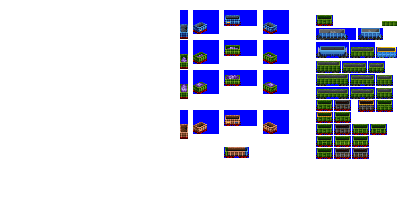
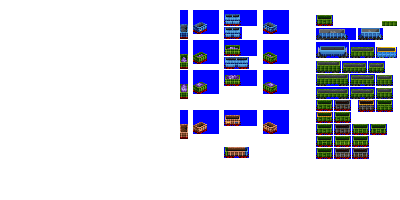
Change: WIP on aggregate bulk opens ('stone wagons'), and side door hoppers

Changed region(s): [[0.54, 0.06, 0.63, 0.21], [0.54, 0.27, 0.63, 0.36]]

diff --git a/src/vehicles/pony/aggregate_bulk_open_cars_type_1_pony.py b/src/vehicles/pony/aggregate_bulk_open_cars_type_1_pony.py
@@ -1,0 +1,27 @@
+from train import BulkOpenCarAggregateConsistType1, FreightCar
+
+
+def main(roster_id, **kwargs):
+    # --------------- standard gauge ---------------------------------------------------------------
+
+    consist = BulkOpenCarAggregateConsistType1(
+        roster_id=roster_id,
+        roster_id_providing_module=kwargs["roster_id_providing_module"],
+        base_numeric_id=32970,
+        gen=5,
+        subtype="B",
+        sprites_complete=False,
+    )
+
+    consist.add_unit(type=FreightCar, chassis="4_axle_sparse_greebled_24px")
+
+    consist = BulkOpenCarAggregateConsistType1(
+        roster_id=roster_id,
+        roster_id_providing_module=kwargs["roster_id_providing_module"],
+        base_numeric_id=32990,
+        gen=5,
+        subtype="C",
+        sprites_complete=False,
+    )
+
+    consist.add_unit(type=FreightCar, chassis="4_axle_sparse_greebled_32px")

diff --git a/src/rosters/pony.py b/src/rosters/pony.py
@@ -228,6 +228,7 @@ wagon_module_names_with_roster_ids = {
     "acid_tank_cars_randomised": "pony",
     "acid_tank_cars_type_1": "pony",
     "acid_tank_cars_type_2": "pony",
+    "aggregate_bulk_open_cars_type_1": "pony",
     "aggregate_hopper_cars_randomised": "pony",
     "aggregate_hopper_cars_type_1": "pony",
     "aggregate_hopper_cars_type_2": "pony",

diff --git a/src/global_constants.py b/src/global_constants.py
@@ -94,7 +94,7 @@ wagon_module_name_stems = [
     "tippler_bulk_open_cars_type_1",
     "tippler_bulk_open_cars_type_2",
     "tippler_bulk_open_cars_randomised",
-    "aggregate_dump_cars_type_1",
+    "aggregate_bulk_open_cars_type_1",
     "scrap_metal_cars_type_1",
     "scrap_metal_cars_type_2",
     "scrap_metal_cars_randomised",

diff --git a/src/vehicles/pony/side_door_hopper_cars_pony.py b/src/vehicles/pony/side_door_hopper_cars_pony.py
@@ -46,7 +46,7 @@ def main(roster_id, **kwargs):
         sprites_complete=False,
     )
 
-    consist.add_unit(type=FreightCar, chassis="2_axle_gapped_24px")
+    consist.add_unit(type=FreightCar, chassis="4_axle_gapped_24px")
     """
     consist = HopperCarSideDoorConsist(
         roster_id=roster_id,
